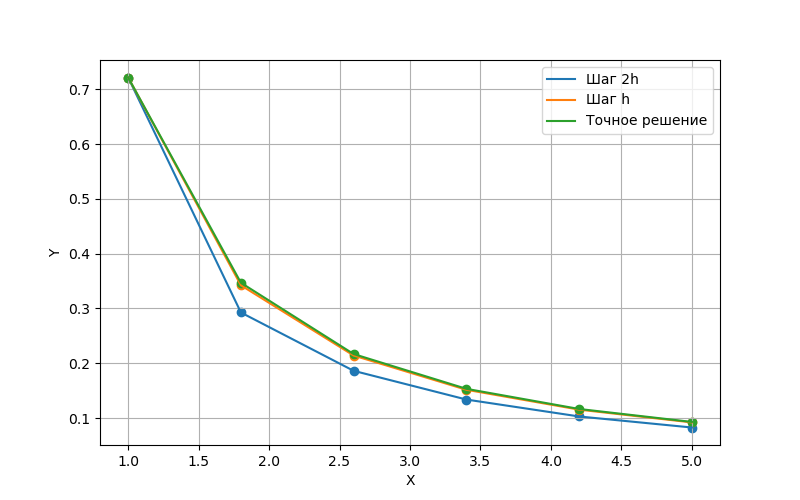
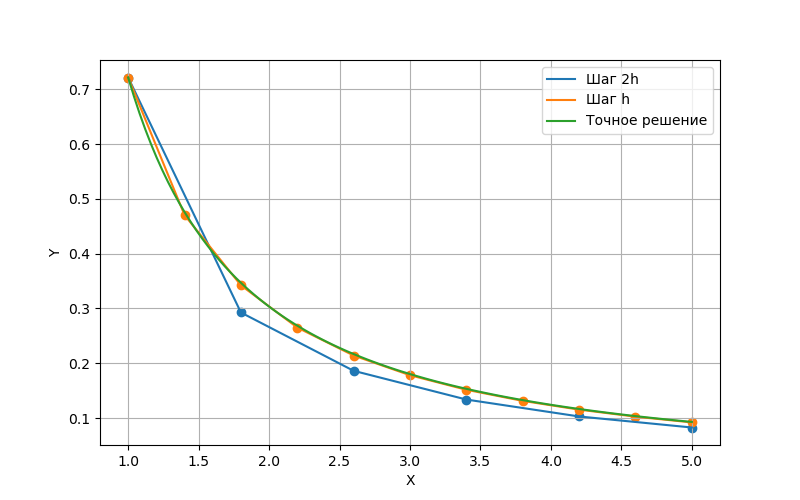
finall?

diff --git a/lab5/main.cpp b/lab5/main.cpp
@@ -15,65 +15,66 @@ double t3_nmax = 0;
 
 typedef struct
 {
-    double x,y;
+    double x, y;
 } Point;
 
 
-double goal_fun(double x){
-    return (1)/((x+1)* log(x+1));
+double goal_fun(double x) {
+    return (1) / ((x + 1) * log(x + 1));
 }
 
-double equation(double x, double y){
-    return -y/(x+1) - powf(y,2);
+double equation(double x, double y) {
+    return -y / (x + 1) - powf(y, 2);
 }
 
 
-bool RungeRule(double y2, double y1, double eps){
-    return fabs(y2 - y1)/ (7) < eps;
+bool RungeRule(double y2, double y1, double eps) {
+    return fabs(y2 - y1) / (7) < eps;
 }
 
-double get_y_by_h(double x, double y, double h, double (*equa) (double, double)){
-    double k1 = equa(x,y);
-    double k2 = equa(x + h/3.0, y + h*k1 * (1.0/3.0));
-    double k3 = equa(x + (2/3.0)*h, y+ (2.0/3.0) *h * k2);
+double get_y_by_h(double x, double y, double h, double (*equa) (double, double)) {
+    double k1 = equa(x, y);
+    double k2 = equa(x + h / 3.0, y + h * k1 * (1.0 / 3.0));
+    double k3 = equa(x + (2 / 3.0) * h, y + (2.0 / 3.0) * h * k2);
 
-    return y + (h/4.0) * (k1 + 3*k3);
+    return y + (h / 4.0) * (k1 + 3 * k3);
 }
 
-double next_y(double x, double y, double *h, double (*equa) (double, double), double eps){
-    double y1 = get_y_by_h(x,y,*h,equa);
+double next_y(double x, double y, double* h, double (*equa) (double, double), double eps) {
+    double y1 = get_y_by_h(x, y, *h, equa);
 
-    double y2 = get_y_by_h(x,y,(*h)/2.0,equa);
-    y2 = get_y_by_h(x,y2,(*h)/2.0,equa);
+    double y2 = get_y_by_h(x, y, (*h) / 2.0, equa);
+    y2 = get_y_by_h(x, y2, (*h) / 2.0, equa);
 
-    while (!RungeRule(y2,y1,eps))
+    while (!RungeRule(y2, y1, eps))
     {
         *h = (*h) / 2.0;
         y1 = y2;
-        y2 = get_y_by_h(x,y,(*h)/2.0,equa);
+        y2 = get_y_by_h(x, y, (*h) / 2.0, equa);
     }
-    
+
     return y2;
 }
 
-vector<Point> solove_difur(double (*equa) (double, double), Point start_cond, double a, double b, int n){
-    
+vector<Point> solove_difur(double (*equa) (double, double), Point start_cond, double a, double b, int n) {
+
     vector<Point> res = vector<Point>();
     res.push_back(start_cond);
 
-    double h = (b-a)/n;
+    double h = (b - a) / n;
 
     t2_h = h;
 
-    for(int i = 1; i <= n; i++){
+    for (int i = 1; i <= n; i++) {
 
-        double new_y = get_y_by_h(res.back().x, res.back().y,h,equa);
-        res.push_back(Point{a + i*h, new_y});
-     
+        double new_y = get_y_by_h(res.back().x, res.back().y, h, equa);
+        res.push_back(Point{ a + i * h, new_y });
+
     }
 
     return res;
 }
+
 
 vector<Point> solve_ode_adaptive(
     double (*f)(double, double),
@@ -81,85 +82,102 @@ vector<Point> solve_ode_adaptive(
     double a,
     double b,
     double eps,
-    double h_init
+    double n_init
 ) {
-    vector<Point> solution = {start};
+    vector<Point> solution = { start };
     double x = start.x;
     double y = start.y;
-    double h = h_init;
+    double n = n_init;
 
-    while (x < b) {
-        if (x + h > b) {
-            h = b - x;
-        }
+    double h = (b - a) / n;
 
-        double y1 = get_y_by_h(x, y, h, f);
+    for (int i = 0; i < n; i++) {
         
-        double y2 = get_y_by_h(x, y, h*0.5, f);
-        y2 = get_y_by_h(x + h*0.5, y2, h*0.5, f);
 
-        double error = fabs(y1 - y2)/7.0;
+        int temp_n = 1;
+        while (true)
+        {
+            double temp_h = h / temp_n;
 
-        if (error < eps) {
-            
-            //for test3
-            int n = (b - a)/h;
-            if(n > t3_nmax) t3_nmax = n;
-            /////
 
-            x += h;
-            y = y2;
-            solution.push_back({x ,y});
+            double y1 = y;
+            double y2 = y;
 
-            h = h_init;
-        } else {
-            h *= 0.5;
+            for (int j = 0; j < temp_n; j++) {
+                y1 = get_y_by_h((a + i *h )+ j* temp_h, y1, temp_h, f);
+            }
+            for (int j = 0; j < 2*temp_n; j++) {
+                y2 = get_y_by_h((a + i * h) + j * temp_h/2.0 , y2, temp_h /2.0, f);
+            }
+
+            double error = fabs(y1 - y2) / 7.0;
+
+            if (error < eps) {
+                        
+                //for test3
+                if (temp_n * n > t3_nmax) t3_nmax = temp_n * n;
+                /////
+
+                y = y2;
+                break;
+            }
+            else
+            {
+                temp_n *= 2;
+            }
         }
+
+
+
+        x = a + h*(i+1);
+        solution.push_back({ x ,y });
+
 
     }
+
 
     return solution;
 }
 
 
-void save_vector(vector<Point> * res, ofstream * f){
-    for(auto p : *res){
+void save_vector(vector<Point>* res, ofstream* f) {
+    for (auto p : *res) {
         *f << p.x << " " << p.y << endl;
     }
 }
 
-void show_err(vector<Point> * res){
-    for(auto p : *res){
+void show_err(vector<Point>* res) {
+    for (auto p : *res) {
         cout << p.x << " " << fabs(p.y - goal_fun(p.x)) << endl;
     }
 }
 
-double get_accurancy(vector<Point> v,double (*goal_fun) (double)){
+double get_accurancy(vector<Point> v, double (*goal_fun) (double)) {
     double max_err = 0;
-    for(auto p : v){
+    for (auto p : v) {
         double err = fabs(p.y - goal_fun(p.x));
-        if( err > max_err) max_err = err;
+        if (err > max_err) max_err = err;
     }
 
     return max_err;
 }
 
 
-void TEST3(){
+void TEST3() {
     ofstream out1;
     out1.open(PATH"3q_1.txt");
 
     ofstream out2;
     out2.open(PATH"3q_2.txt");
 
-    for(int k = 1; k <= 12; k++){
-        vector<Point> result = solve_ode_adaptive(equation,Point{1,goal_fun(1)},1,5,pow(10,-k),2);
+    for (int k = 1; k <= 12; k++) {
+        vector<Point> result = solve_ode_adaptive(equation, Point{ 1,goal_fun(1) }, 1, 5, pow(10, -k), 20);
 
-        double err = get_accurancy(result,goal_fun);
+        double err = get_accurancy(result, goal_fun);
 
-        out1 << pow(10,-k) << " " << err << endl;
+        out1 << pow(10, -k) << " " << err << endl;
 
-        out2 << pow(10,-k) << " " << round(log(t3_nmax)) << endl;
+        out2 << pow(10, -k) << " " << round(log(t3_nmax)) << endl;
 
         t3_nmax = 0;
     }
@@ -169,14 +187,14 @@ void TEST3(){
     out2.close();
 }
 
-void TEST2(){
+void TEST2() {
     ofstream out;
     out.open(PATH"2q.txt");
 
-    for(int k = 1; k <= 12; k++){
-        vector<Point> result = solove_difur(equation,Point{1,goal_fun(1)},1,5,pow(2,k));
+    for (int k = 1; k <= 12; k++) {
+        vector<Point> result = solove_difur(equation, Point{ 1,goal_fun(1) }, 1, 5, pow(2, k));
 
-        double err = get_accurancy(result,goal_fun);
+        double err = get_accurancy(result, goal_fun);
 
         out << t2_h << " " << err << endl;
     }
@@ -184,49 +202,69 @@ void TEST2(){
     out.close();
 }
 
-void TEST1(){
+void TEST1() {
     ofstream out1, out2, out3;
     out1.open(PATH"1q_1.txt");
     out2.open(PATH"1q_2.txt");
-    out3.open(PATH"1q_3.txt");
+    // out3.open(PATH"1q_3.txt");
 
-    vector<Point> result2h = solove_difur(equation,Point{1,goal_fun(1)},1,5,5);
-    vector<Point> resulth = solove_difur(equation,Point{1,goal_fun(1)},1,5,10);
+    vector<Point> result2h = solove_difur(equation, Point{ 1,goal_fun(1) }, 1, 5, 5);
+    vector<Point> resulth = solove_difur(equation, Point{ 1,goal_fun(1) }, 1, 5, 10);
 
-    for(auto p : result2h){
-        out1 << p.x << " " << setprecision(14)  << p.y << endl;
+    for (auto p : result2h) {
+        out1 << p.x << " " << setprecision(14) << p.y << endl;
     }
 
     int i = 0;
-    for(auto p : resulth){
-        if(i%2 == 0) out2 << p.x << " " << setprecision(14)  << p.y << endl;
-        i++;
+    for (auto p : resulth) {
+        out2 << p.x << " " << setprecision(14) << p.y << endl;
 
     }
 
-    for(auto p : result2h){
-        out3 << p.x << " " << setprecision(14)  << goal_fun(p.x) << endl;
-    }
-    
+    // for (auto p : result2h) {
+    //     out3 << p.x << " " << setprecision(14) << goal_fun(p.x) << endl;
+    // }
+
 
     out1.close();
     out2.close();
-    out3.close();
+    // out3.close();
 }
 
-int main(){
+void TEST4(){
+    ofstream out;
+    out.open(PATH"4q.txt");
 
-    TEST1();
+    for (int k = 1; k <= 12; k++) {
+        // vector<Point> result = solve_ode_adaptive(equation, Point{ 1,goal_fun(1) }, 1, 5, pow(10, -k), 20);
+        vector<Point> result = solove_difur(equation, Point{ 1,goal_fun(1) }, 1, 5, pow(2, k));
 
-    // ofstream file("res.txt");
+        Point max_err = {0,0};
+        
+        for(auto point : result){
+            double err = fabs(point.y - goal_fun(point.x));
+            
+            cout << err << endl;
 
-    //vector<Point> result = solve_ode_adaptive(equation,Point{1,goal_fun(1)},1,5,0.01,1);
+            if(err > max_err.y){
+                cout << err << " " << point.x <<  endl;
+                max_err.x = point.x;
+                max_err.y = err;
+            }
+        }
 
-    // vector<Point> result = solove_difur(equation,Point{1,goal_fun(1)},1,1.2,2);
+        out << k << " " << max_err.x << endl;
+    }
 
-    // save_vector(&result,&file);
+    out.close();
+}
 
-    // show_err(&result);
-    // cout << equation(1,0.15342640972);
+int main() {
+
+    // TEST1();
+    // TEST2();
+    // TEST3();
+    TEST4();
+
     return 0;
 }
